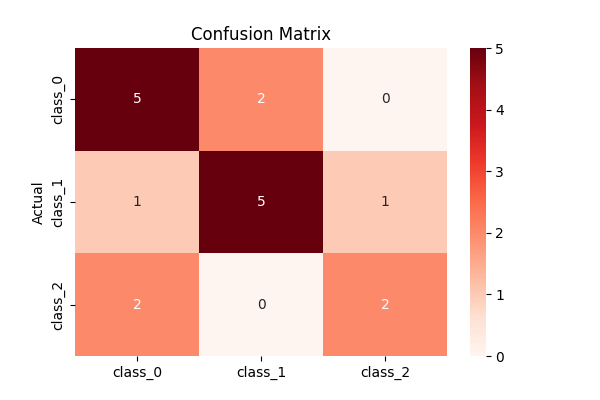
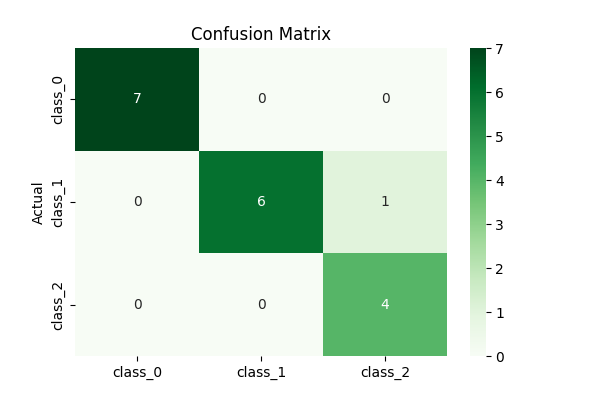
first commit

diff --git a/file1.py b/file1.py
@@ -16,14 +16,15 @@ y = data.target
 X_train, X_test, y_train, y_test = train_test_split(X, y, test_size=0.10, random_state=42)
 print(X_train.shape,  X_test.shape, y_train.shape, y_test.shape)
 
-max_depth = 5 # Maximum depth of the tree for base learners in the forest
-n_estimators = 1 # Number of trees in the forest
+max_depth = 4 # Maximum depth of the tree for base learners in the forest
+n_estimators = 6 # Number of trees in the forest
 
 print("Training RandomForestClassifier...")
 
 mlflow.set_tracking_uri("http://127.0.0.1:5000")
 print("MLflow Tracking URI:", mlflow.get_tracking_uri())
 
+# Set the experiment name
 mlflow.set_experiment("Wine_Quality_Classification") # Ek experiment banaya jiska naam hai
 
 # Start an MLflow run
@@ -43,13 +44,13 @@ with mlflow.start_run():
     # Confusion matrix
     cm = confusion_matrix(y_test, y_pred)
     plt.figure(figsize=(6, 4))
-    sns.heatmap(cm, annot=True, fmt="d", cmap="Reds", xticklabels=data.target_names, yticklabels=data.target_names)
+    sns.heatmap(cm, annot=True, fmt="d", cmap="Greens", xticklabels=data.target_names, yticklabels=data.target_names)
     plt.ylabel("Actual")
     plt.title("Confusion Matrix")
     plt.savefig("confusion_matrix.png")
 
     # Log parameters and metrics to MLflow
-    mlflow.log_metric("accuracy", accuracy) 
+    mlflow.log_metric("accuracy", accuracy)
     mlflow.log_param("max_depth", max_depth)
     mlflow.log_param("n_estimators", n_estimators)
 
